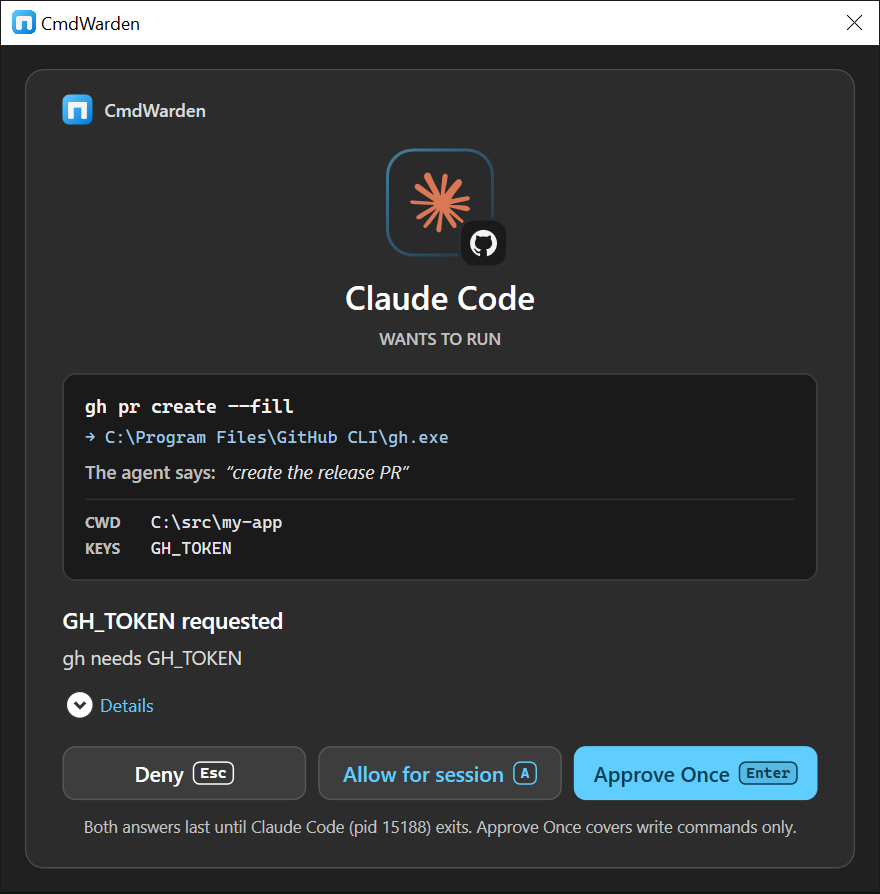
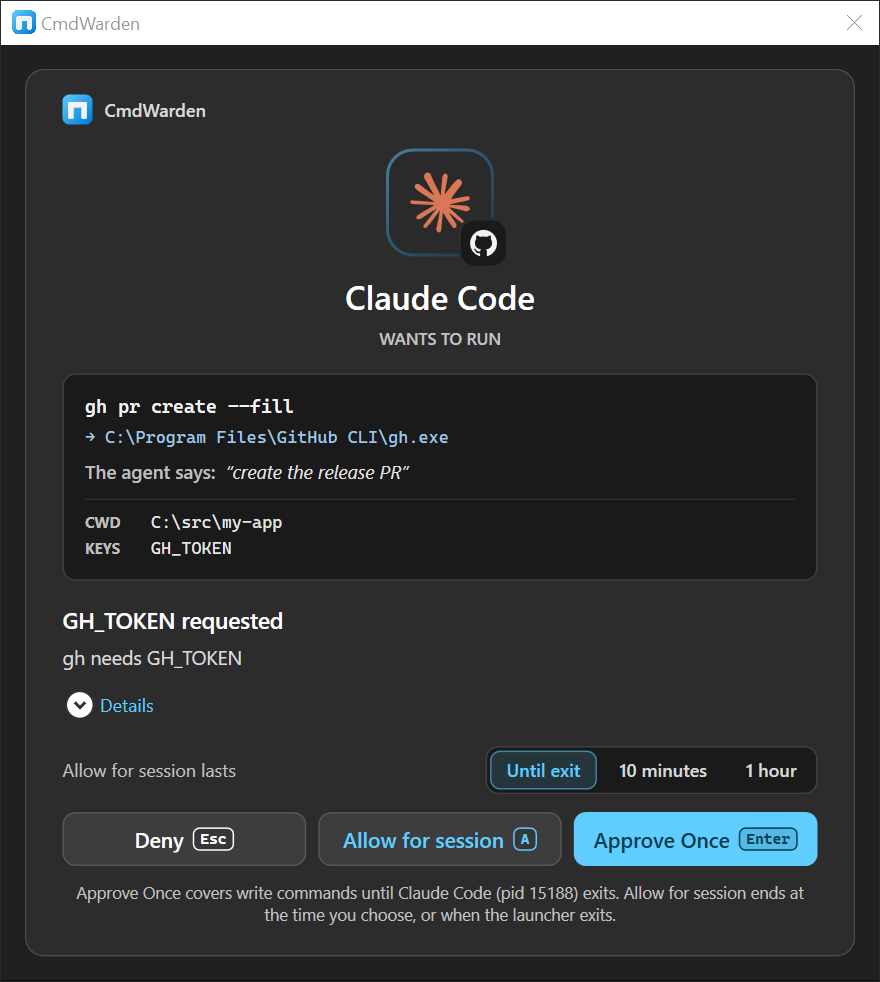
docs: update screenshots for v0.7.0
Render the popup with the session length row, Secret Gates with its edit
controls, and the Enroll launcher and Set level dialogs.
Enroll rows keep the last seen time on the name line, so it is never cut.
Set level trims a long policy key and shows it in a tooltip.
render-ui-shots.ps1 waits for the Alt release after a focus change, and
looks for an element again for up to 5 seconds.

diff --git a/src/CmdWarden.SecretsManager/EnrollWindow.xaml b/src/CmdWarden.SecretsManager/EnrollWindow.xaml
@@ -23,14 +23,18 @@
           <ItemsControl x:Name="SeenList" Margin="4">
             <ItemsControl.ItemTemplate>
               <DataTemplate>
-                <RadioButton GroupName="Seen" Style="{StaticResource SegmentStyle}" HorizontalContentAlignment="Left"
+                <RadioButton GroupName="Seen" Style="{StaticResource SegmentStyle}" HorizontalContentAlignment="Stretch"
                              Checked="Seen_Checked" Tag="{Binding PolicyKey}" HorizontalAlignment="Stretch"
                              AutomationProperties.Name="{Binding PolicyKey}">
                   <DockPanel>
                     <Image DockPanel.Dock="Left" Source="{Binding Icon}" Width="20" Height="20" Margin="0,0,10,0"
                            VerticalAlignment="Center" Style="{StaticResource BrandIconStyle}" />
                     <StackPanel>
-                      <TextBlock Text="{Binding Name}" FontSize="12.5" TextTrimming="CharacterEllipsis" />
+                      <DockPanel>
+                        <TextBlock DockPanel.Dock="Right" Text="{Binding Seen}" FontSize="11" FontWeight="Normal" Margin="12,0,0,0"
+                                   VerticalAlignment="Center" Foreground="{StaticResource TextTertiaryBrush}" />
+                        <TextBlock Text="{Binding Name}" FontSize="12.5" TextTrimming="CharacterEllipsis" />
+                      </DockPanel>
                       <TextBlock Text="{Binding Detail}" FontSize="11" FontWeight="Normal" TextTrimming="CharacterEllipsis"
                                  Foreground="{StaticResource TextTertiaryBrush}" />
                     </StackPanel>

diff --git a/src/CmdWarden.SecretsManager/SetLevelWindow.xaml b/src/CmdWarden.SecretsManager/SetLevelWindow.xaml
@@ -2,7 +2,7 @@
         xmlns="http://schemas.microsoft.com/winfx/2006/xaml/presentation"
         xmlns:x="http://schemas.microsoft.com/winfx/2006/xaml"
         Title="Set level"
-        Width="440"
+        Width="500"
         SizeToContent="Height"
         WindowStartupLocation="CenterOwner"
         ResizeMode="NoResize"
@@ -13,7 +13,7 @@
   <Border Margin="16" Background="#2A2A2A" BorderBrush="#1EFFFFFF" BorderThickness="1" CornerRadius="10" Padding="20">
     <StackPanel>
       <TextBlock x:Name="TitleText" FontSize="16" FontWeight="SemiBold" Margin="0,0,0,4" TextWrapping="Wrap" />
-      <TextBlock x:Name="LauncherText" FontSize="12" FontFamily="Cascadia Mono, Consolas" TextWrapping="Wrap"
+      <TextBlock x:Name="LauncherText" FontSize="12" FontFamily="Cascadia Mono, Consolas" TextTrimming="CharacterEllipsis"
                  Foreground="{StaticResource TextSecondaryBrush}" Margin="0,0,0,16" />
 
       <Border Style="{StaticResource SegmentFrameStyle}" AutomationProperties.Name="Level">

diff --git a/src/CmdWarden.SecretsManager/EnrollWindow.xaml.cs b/src/CmdWarden.SecretsManager/EnrollWindow.xaml.cs
@@ -10,7 +10,7 @@ namespace CmdWarden.SecretsManager;
 /// <summary>#44: enroll a launcher by key, or pick one the audit saw. Enroll is the confirmation.</summary>
 public partial class EnrollWindow : Window
 {
-    private sealed record SeenRow(string PolicyKey, string Name, string Detail, string? Path, ImageSource? Icon);
+    private sealed record SeenRow(string PolicyKey, string Name, string Seen, string Detail, string? Path, ImageSource? Icon);
 
     private readonly IReadOnlyList<SeenRow> _seen;
     private readonly PolicyLevel _harnessDefault;
@@ -24,7 +24,8 @@ public partial class EnrollWindow : Window
         _seen = seen.Select(s => new SeenRow(
             s.PolicyKey,
             s.Path is { } p ? Path.GetFileName(p) : s.PolicyKey,
-            (s.Path ?? s.PolicyKey) + (s.LastSeen is { } t ? "  ·  last seen " + t.ToLocalTime().ToString("yyyy-MM-dd HH:mm") : ""),
+            s.LastSeen is { } t ? "last seen " + t.ToLocalTime().ToString("yyyy-MM-dd HH:mm") : "",
+            s.Path ?? s.PolicyKey,
             s.Path,
             BrandImages.ForLauncher(null, s.Path))).ToList();
         SeenList.ItemsSource = _seen;

diff --git a/src/CmdWarden.SecretsManager/SetLevelWindow.xaml.cs b/src/CmdWarden.SecretsManager/SetLevelWindow.xaml.cs
@@ -15,6 +15,7 @@ public partial class SetLevelWindow : Window
         _current = current;
         TitleText.Text = $"Set the {toolName} level";
         LauncherText.Text = policyKey;
+        LauncherText.ToolTip = policyKey;
         Button(current).IsChecked = true;
     }
 
